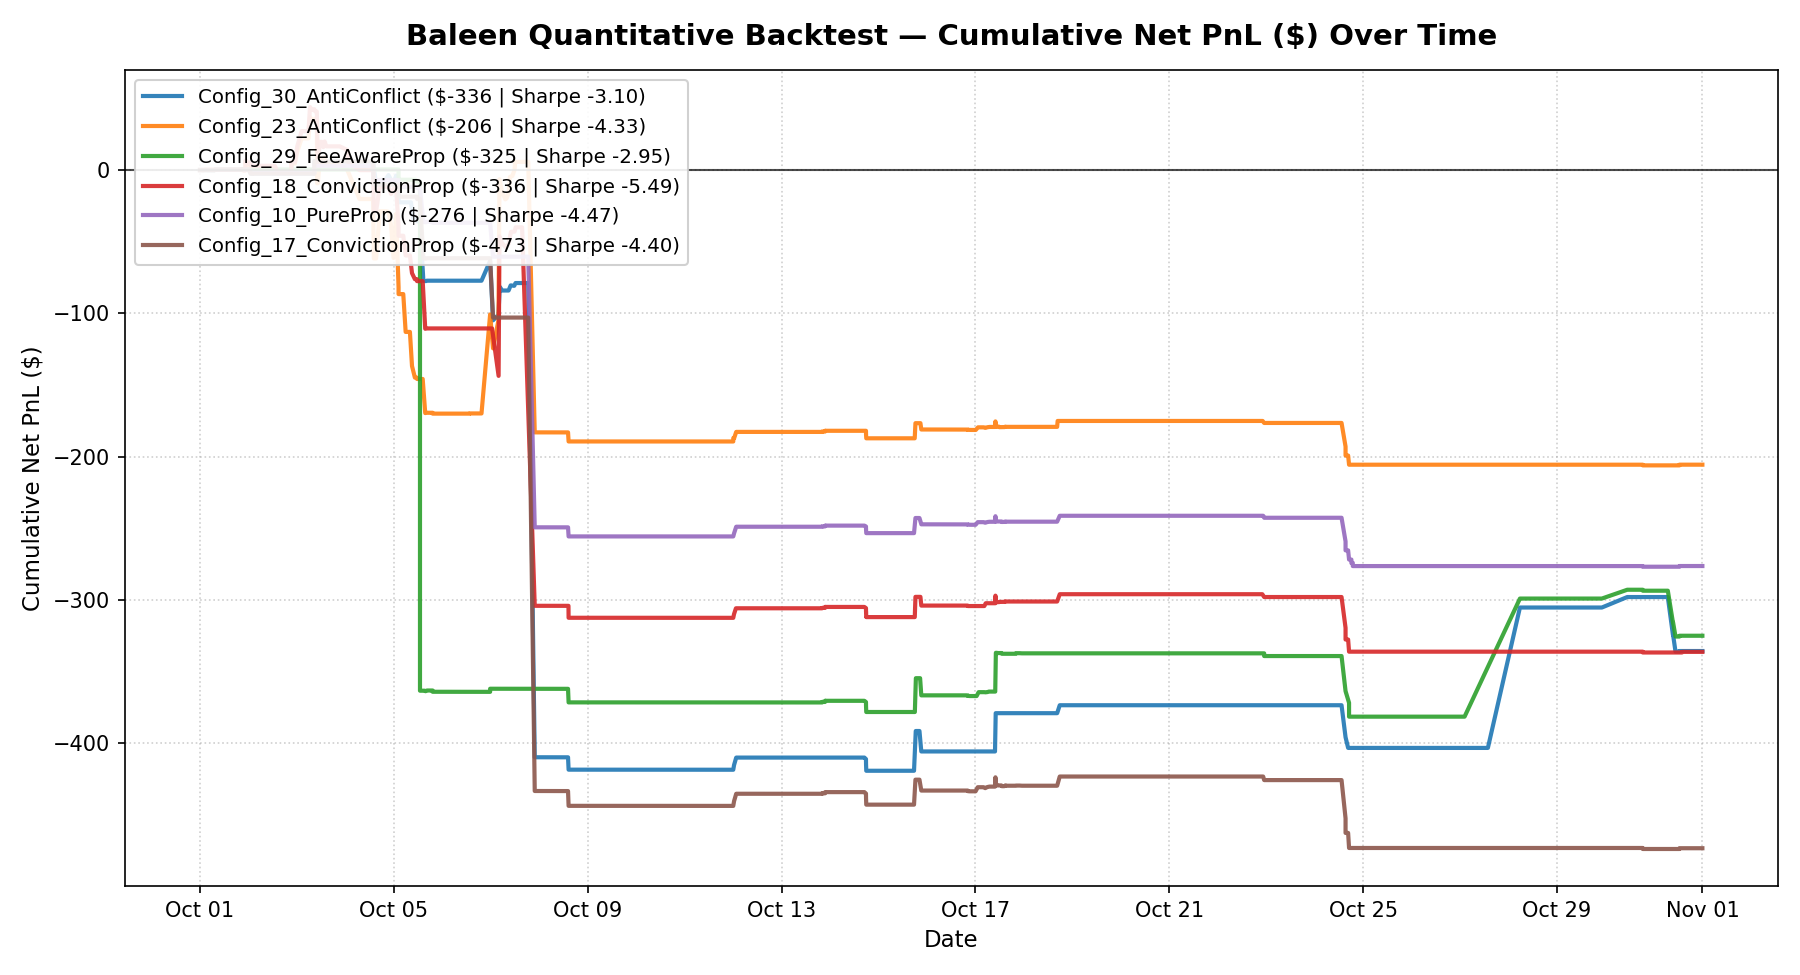
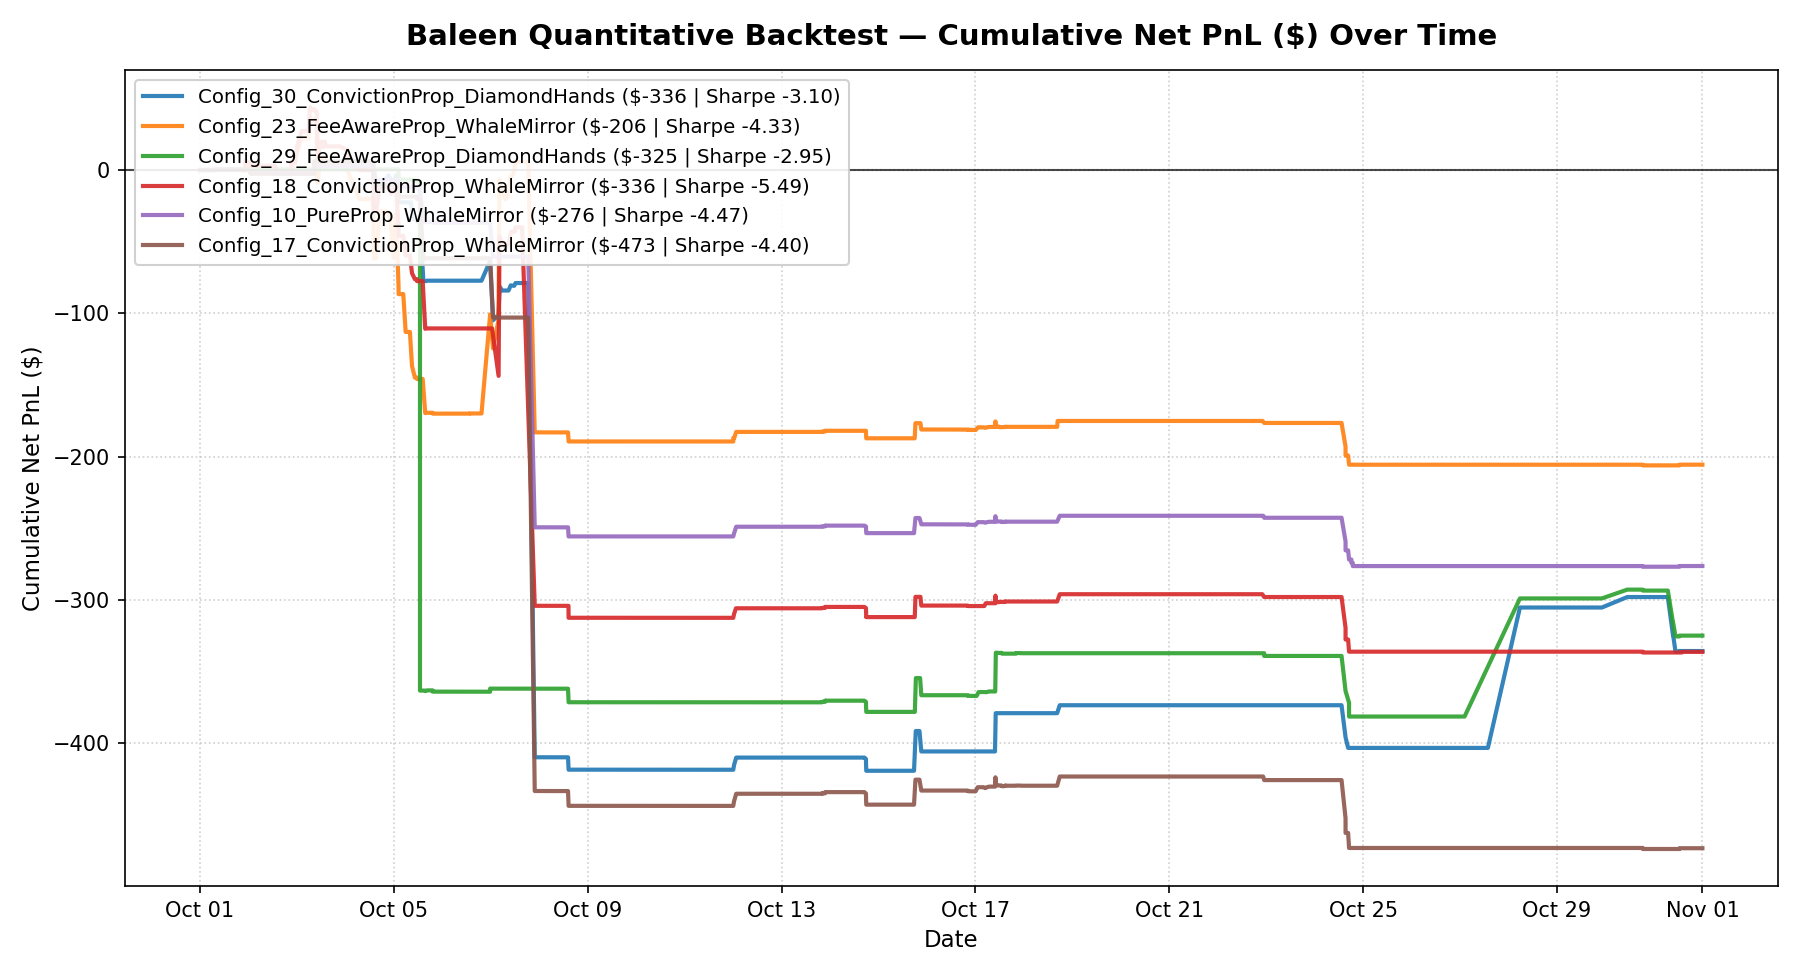
fix(backtest): resolve 30-sweep strategy naming, prevent resolution settlement time-travel, and regenerate labeled performance charts

Changed region(s): [[0.1556, 0.0923, 0.4667, 0.2769]]

diff --git a/backend/app/backtesting/optimizer.py b/backend/app/backtesting/optimizer.py
@@ -370,7 +370,7 @@ class StrategyOptimizer:
             # Group 3: Min Whale Historical PnL variation ($25k, $50k, $100k) [Runs 11-13]
             {"id": 11, "n_wallets": 8, "min_wr": 70.0, "min_pnl": 25000.0, "sizing_mode": "pure_proportional", "anti_conflict": True, "hold_to_resolution": False, "desc": "N=8  | WR>=70% | PnL>=$25k | PureProp | AntiConflict | WhaleMirror"},
             {"id": 12, "n_wallets": 8, "min_wr": 70.0, "min_pnl": 50000.0, "sizing_mode": "pure_proportional", "anti_conflict": True, "hold_to_resolution": False, "desc": "N=8  | WR>=70% | PnL>=$50k | PureProp | AntiConflict | WhaleMirror"},
-            {"id": 13, "n_wallets": 8, "min_wr": 70.0, "min_pnl": 100000.0, "sizing_mode": "pure_proportional", "anti_conflict": True, "hold_to_resolution": False, "desc": "N=8  | WR>=70% | PnL>=$100k| PureProp | AntiConflict | WhaleMirror"},
+            {"id": 13, "n_wallets": 8, "min_wr": 70.0, "min_pnl": 100000.0, "sizing_mode": "pure_proportional", "anti_conflict": True, "hold_to_resolution": False, "desc": "N=8  | WR>=70% | PnL>=$100k | PureProp | AntiConflict | WhaleMirror"},
 
             # Group 4: Conviction Scaled Sizing across wallet counts & win rates [Runs 14-18]
             {"id": 14, "n_wallets": 5, "min_wr": 70.0, "min_pnl": 50000.0, "sizing_mode": "conviction_scaled", "anti_conflict": True, "hold_to_resolution": False, "desc": "N=5  | WR>=70% | PnL>=$50k | ConvictionProp | AntiConflict | WhaleMirror"},
@@ -383,8 +383,8 @@ class StrategyOptimizer:
             {"id": 19, "n_wallets": 5, "min_wr": 70.0, "min_pnl": 50000.0, "sizing_mode": "fee_aware", "anti_conflict": True, "hold_to_resolution": False, "desc": "N=5  | WR>=70% | PnL>=$50k | FeeAwareProp | AntiConflict | WhaleMirror"},
             {"id": 20, "n_wallets": 8, "min_wr": 70.0, "min_pnl": 50000.0, "sizing_mode": "fee_aware", "anti_conflict": True, "hold_to_resolution": False, "desc": "N=8  | WR>=70% | PnL>=$50k | FeeAwareProp | AntiConflict | WhaleMirror"},
             {"id": 21, "n_wallets": 10, "min_wr": 75.0, "min_pnl": 50000.0, "sizing_mode": "fee_aware", "anti_conflict": True, "hold_to_resolution": False, "desc": "N=10 | WR>=75% | PnL>=$50k | FeeAwareProp | AntiConflict | WhaleMirror"},
-            {"id": 22, "n_wallets": 12, "min_wr": 75.0, "min_pnl": 100000.0, "sizing_mode": "fee_aware", "anti_conflict": True, "hold_to_resolution": False, "desc": "N=12 | WR>=75% | PnL>=$100k| FeeAwareProp | AntiConflict | WhaleMirror"},
-            {"id": 23, "n_wallets": 15, "min_wr": 80.0, "min_pnl": 100000.0, "sizing_mode": "fee_aware", "anti_conflict": True, "hold_to_resolution": False, "desc": "N=15 | WR>=80% | PnL>=$100k| FeeAwareProp | AntiConflict | WhaleMirror"},
+            {"id": 22, "n_wallets": 12, "min_wr": 75.0, "min_pnl": 100000.0, "sizing_mode": "fee_aware", "anti_conflict": True, "hold_to_resolution": False, "desc": "N=12 | WR>=75% | PnL>=$100k | FeeAwareProp | AntiConflict | WhaleMirror"},
+            {"id": 23, "n_wallets": 15, "min_wr": 80.0, "min_pnl": 100000.0, "sizing_mode": "fee_aware", "anti_conflict": True, "hold_to_resolution": False, "desc": "N=15 | WR>=80% | PnL>=$100k | FeeAwareProp | AntiConflict | WhaleMirror"},
 
             # Group 6: Anti-Conflict Gating Comparison (Un-gated vs Gated) [Runs 24-26]
             {"id": 24, "n_wallets": 10, "min_wr": 70.0, "min_pnl": 50000.0, "sizing_mode": "pure_proportional", "anti_conflict": False, "hold_to_resolution": False, "desc": "N=10 | WR>=70% | PnL>=$50k | PureProp | Ungated | WhaleMirror"},
@@ -395,7 +395,7 @@ class StrategyOptimizer:
             {"id": 27, "n_wallets": 10, "min_wr": 70.0, "min_pnl": 50000.0, "sizing_mode": "pure_proportional", "anti_conflict": True, "hold_to_resolution": True, "desc": "N=10 | WR>=70% | PnL>=$50k | PureProp | AntiConflict | DiamondHands"},
             {"id": 28, "n_wallets": 5, "min_wr": 75.0, "min_pnl": 50000.0, "sizing_mode": "conviction_scaled", "anti_conflict": True, "hold_to_resolution": True, "desc": "N=5  | WR>=75% | PnL>=$50k | ConvictionProp | AntiConflict | DiamondHands"},
             {"id": 29, "n_wallets": 10, "min_wr": 75.0, "min_pnl": 50000.0, "sizing_mode": "fee_aware", "anti_conflict": True, "hold_to_resolution": True, "desc": "N=10 | WR>=75% | PnL>=$50k | FeeAwareProp | AntiConflict | DiamondHands"},
-            {"id": 30, "n_wallets": 12, "min_wr": 80.0, "min_pnl": 100000.0, "sizing_mode": "conviction_scaled", "anti_conflict": True, "hold_to_resolution": True, "desc": "N=12 | WR>=80% | PnL>=$100k| ConvictionProp | AntiConflict | DiamondHands"}
+            {"id": 30, "n_wallets": 12, "min_wr": 80.0, "min_pnl": 100000.0, "sizing_mode": "conviction_scaled", "anti_conflict": True, "hold_to_resolution": True, "desc": "N=12 | WR>=80% | PnL>=$100k | ConvictionProp | AntiConflict | DiamondHands"}
         ]
 
         whales_cache = {}
@@ -420,12 +420,19 @@ class StrategyOptimizer:
 
             whale_addrs = [q.address for q in whales_qual]
 
+            mode_lbl = {
+                "pure_proportional": "PureProp",
+                "conviction_scaled": "ConvictionProp",
+                "fee_aware": "FeeAwareProp",
+            }.get(c["sizing_mode"], "Prop")
+            exit_lbl = "DiamondHands" if c["hold_to_resolution"] else "WhaleMirror"
+
             strat = ProportionalSleeveStrategy(
                 sizing_mode=c["sizing_mode"],
                 enable_anti_conflict=c["anti_conflict"],
                 hold_to_resolution=c["hold_to_resolution"],
                 n_active=c["n_wallets"],
-                name=f"Config_{c['id']:02d}_{c['desc'].split(' | ')[3]}"
+                name=f"Config_{c['id']:02d}_{mode_lbl}_{exit_lbl}"
             )
             strat.set_qualified_roster(whales_qual)
 

diff --git a/backend/app/backtesting/report.py b/backend/app/backtesting/report.py
@@ -172,7 +172,7 @@ def generate_comparison_charts(
 
     # 3. Multi-Metric Performance Comparison (2x2 Bar Chart)
     fig, axes = plt.subplots(2, 2, figsize=(14, 9.5))
-    strat_names = [r.strategy_name.replace("Baleen_", "").replace("_", "\n") for r in results]
+    strat_names = [r.strategy_name.replace("Baleen_", "").replace("Config_", "Config ").replace("_", "\n") for r in results]
 
     # Net PnL ($)
     pnls = [r.total_net_pnl for r in results]

diff --git a/backend/app/backtesting/portfolio.py b/backend/app/backtesting/portfolio.py
@@ -237,7 +237,7 @@ class SimulatedPortfolio:
                 net_pnl=round(net_pnl, 2),
                 roi_pct=round(roi_pct, 2),
                 opened_at=pos.opened_at,
-                closed_at=resolution_timestamp,
+                closed_at=max(pos.opened_at, resolution_timestamp),
                 hold_duration_sec=max(0.0, resolution_timestamp - pos.opened_at),
                 exit_reason=reason
             )
